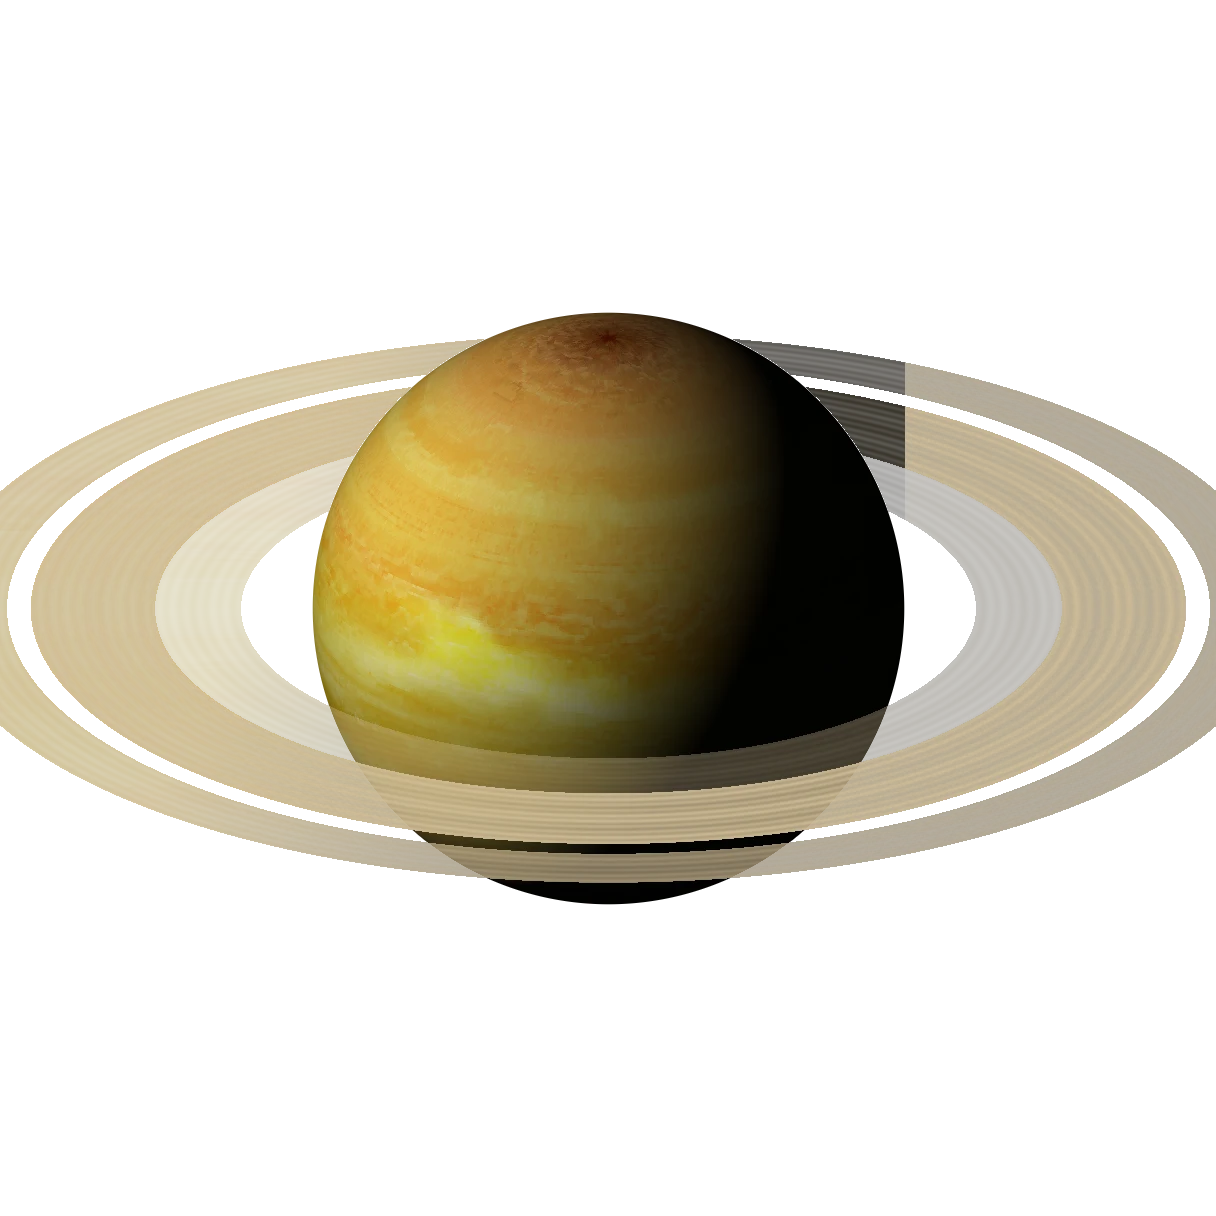
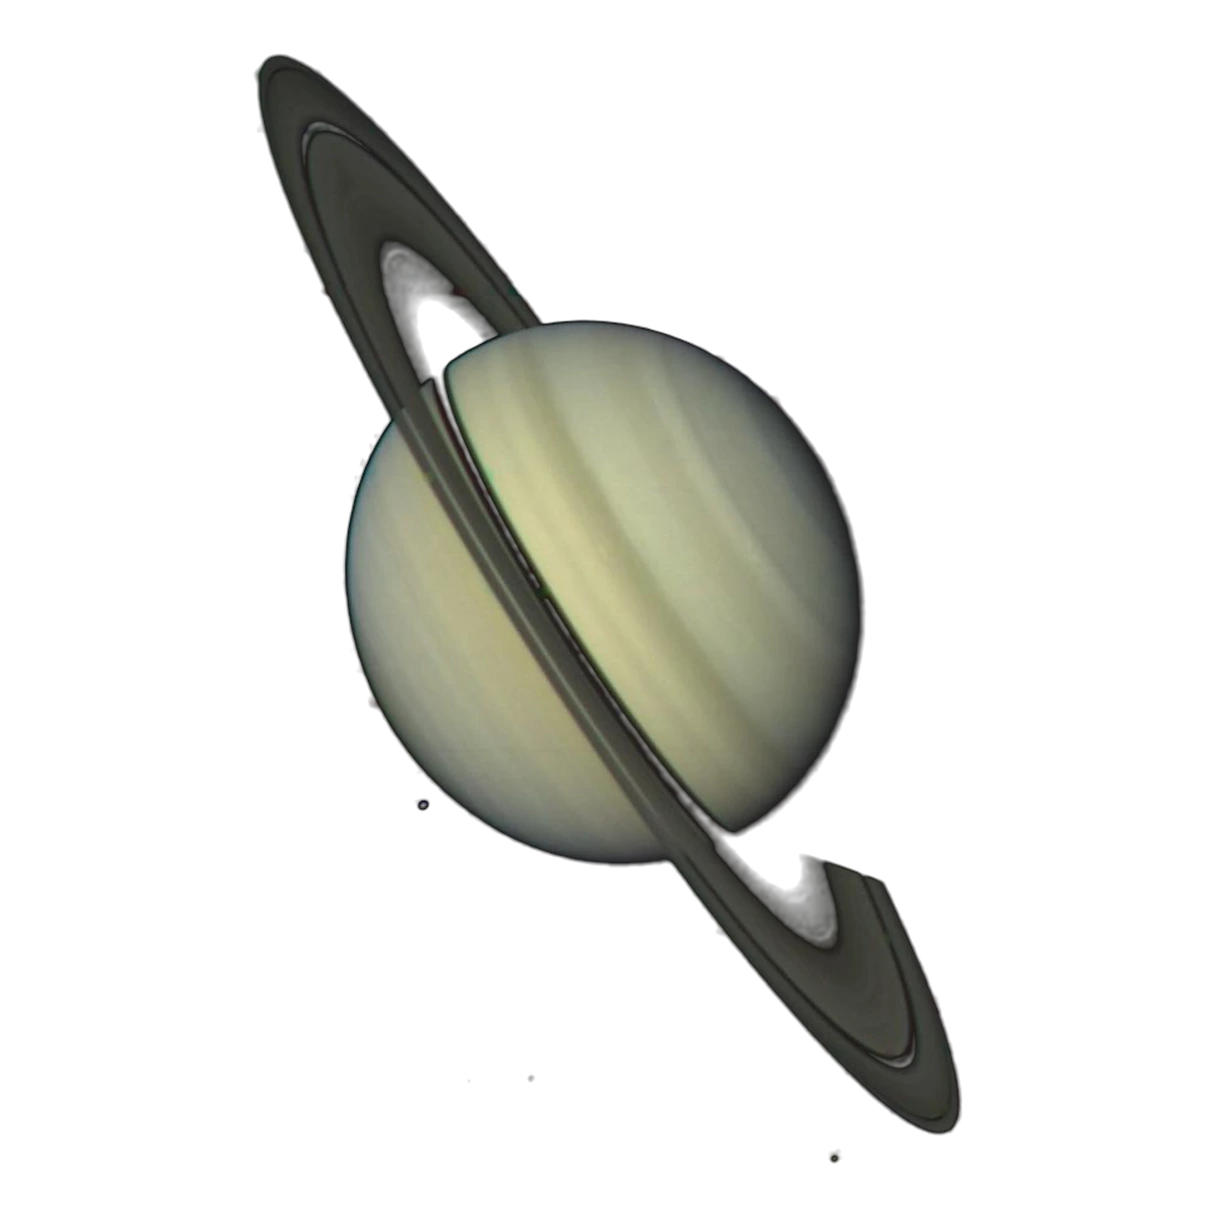
feat: vraies photos officielles pour les planètes et lunes
Remplace les globes 3D reconstitués par de vraies images de missions
NASA/ESA (Apollo 17, Voyager 1/2, Galileo, Hubble, New Horizons),
recadrées et détourées sur fond transparent. Crédits mis à jour,
avec mention "image composée" quand ce n'est pas un cliché brut
(fusion de filtres sur une même visée).

Met aussi à jour la carte Carte.js (variante holo pour les cartes
Légendaire) et les styles associés depuis la dernière export Nocturne.

diff --git a/frontend/app/astrodex.css b/frontend/app/astrodex.css
@@ -11,46 +11,86 @@ a:hover { color: var(--color-accent-300); }
 .ax-mark::after { content: ""; position: absolute; inset: 22%; border-radius: 50%; background: currentColor; }
 .ax-mark::before { content: ""; position: absolute; left: -35%; right: -35%; top: 45%; height: 1.5px; background: currentColor; transform: rotate(-22deg); }
 
-/* ---------- Carte ---------- */
-.ax-card { container-type: inline-size; position: relative; width: 100%; aspect-ratio: 63 / 88; perspective: 1400px; user-select: none; color: var(--color-text); --rc: #9aa1b9; }
+/* ---------- Carte ----------
+   Cadre métal par rareté (C → UR) ; Légendaire = holo pleine illustration. Tailles en cqw (référence : 260 px de large). */
+.ax-card { container-type: inline-size; position: relative; width: 100%; aspect-ratio: 63 / 88; perspective: 1400px; user-select: none; color: var(--color-text); --rc: #9aa1b9; --tc: oklch(0.78 0.11 70); }
 .ax-card[data-r="PC"] { --rc: #5ee0c0; }
 .ax-card[data-r="R"] { --rc: #6aa8ff; }
 .ax-card[data-r="UR"] { --rc: #c58bff; }
 .ax-card[data-r="L"] { --rc: #ffcf6b; }
+.ax-card[data-t="nebuleuse"] { --tc: oklch(0.74 0.12 345); }
+.ax-card[data-t="galaxie"] { --tc: oklch(0.74 0.11 265); }
+.ax-card[data-t="amas"] { --tc: oklch(0.8 0.09 195); }
 .ax-flip { position: absolute; inset: 0; transform-style: preserve-3d; transition: transform .75s cubic-bezier(.16,1,.3,1); }
 .ax-card[data-down] .ax-flip { transform: rotateY(180deg); }
-.ax-face, .ax-back { position: absolute; inset: 0; backface-visibility: hidden; -webkit-backface-visibility: hidden; border-radius: 4.6% / 3.3%; padding: 2.2cqw; }
-.ax-face { background: color-mix(in srgb, var(--rc) 22%, var(--color-surface)); box-shadow: 0 0 0 1px var(--color-neutral-800), 0 4cqw 9cqw -3cqw rgba(0,0,0,.7); }
-.ax-card[data-r="R"] .ax-face { box-shadow: 0 0 0 1px color-mix(in srgb, var(--rc) 67%, transparent), 0 4cqw 9cqw -3cqw rgba(0,0,0,.7); }
-.ax-card:is([data-r="UR"], [data-r="L"]) .ax-face { box-shadow: 0 0 0 1px var(--rc), 0 0 7cqw -1cqw color-mix(in srgb, var(--rc) 55%, transparent), 0 4cqw 9cqw -3cqw rgba(0,0,0,.7); }
-.ax-in { position: relative; height: 100%; border-radius: 3.6% / 2.6%; overflow: hidden; isolation: isolate;
-  background: radial-gradient(ellipse 80% 55% at 30% 25%, var(--color-accent-900), transparent 70%), linear-gradient(180deg, var(--color-bg), #0b0c14); }
+.ax-face, .ax-back { position: absolute; inset: 0; backface-visibility: hidden; -webkit-backface-visibility: hidden; border-radius: 5cqw; }
+
+/* cadre classique */
+.ax-face.classic { padding: 3.4cqw; box-shadow: 0 5cqw 11cqw -4cqw rgba(0,0,0,.7);
+  background: linear-gradient(145deg, color-mix(in srgb, var(--rc) 55%, var(--color-neutral-100)), var(--rc) 22%, color-mix(in srgb, var(--rc) 45%, var(--color-bg)) 52%, color-mix(in srgb, var(--rc) 80%, var(--color-neutral-100)) 78%, color-mix(in srgb, var(--rc) 50%, var(--color-bg))); }
+.ax-card[data-r="UR"] .ax-face.classic { box-shadow: 0 0 11cqw -2cqw var(--rc), 0 5cqw 11cqw -4cqw rgba(0,0,0,.7); }
+.ax-in { height: 100%; border-radius: 2.8cqw; padding: 3cqw 3.4cqw; display: flex; flex-direction: column; gap: 2cqw;
+  background: linear-gradient(180deg, color-mix(in srgb, var(--rc) 14%, var(--color-surface)), var(--color-bg)); }
+.ax-head { display: flex; align-items: center; gap: 2.8cqw; }
+.ax-ticon { width: 9.4cqw; height: 9.4cqw; flex: none; border-radius: 50%; display: grid; place-items: center; background: var(--tc); color: var(--color-bg); font-size: 5.4cqw; }
+.ax-title { min-width: 0; flex: 1; }
+.ax-name { font-size: 5.6cqw; font-weight: 600; line-height: 1.1; letter-spacing: -.01em; white-space: nowrap; overflow: hidden; text-overflow: ellipsis; }
+.ax-type { font-size: 3.1cqw; letter-spacing: .12em; text-transform: uppercase; color: var(--color-neutral-300); white-space: nowrap; overflow: hidden; text-overflow: ellipsis; }
+.ax-pow { flex: none; display: flex; align-items: baseline; gap: 1cqw; font-size: 3.1cqw; color: var(--color-neutral-300); }
+.ax-pow b { font-size: 6.6cqw; font-weight: 600; color: var(--color-text); }
+.ax-window { position: relative; height: 46cqw; flex: none; border-radius: 1.2cqw; overflow: hidden;
+  background: radial-gradient(ellipse 80% 70% at 40% 30%, var(--color-accent-900), #0b0c14);
+  box-shadow: 0 0 0 2px color-mix(in srgb, var(--rc) 70%, var(--color-bg)), inset 0 0 7cqw rgba(0,0,0,.6); }
 .ax-art { position: absolute; inset: 0; width: 100%; height: 100%; object-fit: cover; }
-.ax-art.globe { inset: auto; left: 6%; top: 8%; width: 88%; height: auto; }
-.ax-art.wide { inset: auto; left: -14%; top: 8%; width: 128%; max-width: none; height: auto; }
-.ax-scrim { position: absolute; inset: 0; background: linear-gradient(180deg, rgba(10,11,18,.55) 0%, transparent 18%, transparent 42%, rgba(10,11,18,.88) 64%, rgba(10,11,18,.97) 100%); }
-.ax-top { position: absolute; top: 0; left: 0; right: 0; display: flex; justify-content: space-between; align-items: center; padding: 4.4cqw 4.8cqw; }
-.ax-gem { display: flex; align-items: center; gap: 2.2cqw; font-size: 3.4cqw; letter-spacing: .12em; font-variant-numeric: tabular-nums; color: var(--color-neutral-200); }
-.ax-gem i { width: 3.6cqw; height: 3.6cqw; transform: rotate(45deg); border-radius: 1px; background: var(--rc); box-shadow: 0 0 3cqw var(--rc); }
-.ax-pow { font-size: 3.8cqw; padding: 1cqw 3cqw; border-radius: 99px; border: 1px solid var(--color-divider); color: var(--color-neutral-300); background: rgba(10,11,18,.45); }
-.ax-pow b { font-weight: 600; color: var(--color-text); }
-.ax-new { font-size: 3.4cqw; font-weight: 600; letter-spacing: .1em; padding: 1cqw 3cqw; border-radius: 99px; border: 1px solid var(--color-accent); color: var(--color-accent-200); background: rgba(10,11,18,.6); }
-.ax-bottom { position: absolute; left: 0; right: 0; bottom: 0; padding: 0 4.8cqw 4.2cqw; display: grid; gap: 2.6cqw; }
-.ax-type { font-size: 3.5cqw; letter-spacing: .14em; text-transform: uppercase; font-weight: 600; color: var(--rc); }
-.ax-name { font-size: 7.6cqw; font-weight: 500; letter-spacing: -.02em; line-height: 1.05; text-wrap: balance; margin-top: -1cqw; }
-.ax-meta { font-size: 3.8cqw; color: var(--color-neutral-400); margin-top: -1.4cqw; }
-.ax-stats { display: grid; grid-template-columns: repeat(3, 1fr); gap: 2.6cqw; padding: 3cqw 3.4cqw; border-radius: 3.4cqw; background: rgba(233,233,237,.05); border: 1px solid rgba(233,233,237,.09); }
-.ax-stat { display: grid; gap: 1.4cqw; }
-.ax-stat > div:first-child { display: flex; justify-content: space-between; align-items: baseline; font-size: 3cqw; letter-spacing: .14em; color: var(--color-neutral-500); }
-.ax-stat b { font-size: 5cqw; letter-spacing: 0; font-weight: 500; color: var(--color-text); font-variant-numeric: tabular-nums; }
-.ax-bar { height: 2px; border-radius: 2px; background: rgba(233,233,237,.1); overflow: hidden; }
-.ax-bar i { display: block; height: 100%; background: var(--rc); }
-.ax-foot { display: flex; justify-content: space-between; gap: 3cqw; font-size: 2.8cqw; color: var(--color-neutral-600); letter-spacing: .04em; }
+.ax-art.globe { object-fit: contain; transform: scale(1.2); }
+.ax-new { position: absolute; top: 2cqw; right: 2cqw; z-index: 2; font-size: 3cqw; font-weight: 600; letter-spacing: .1em; padding: .8cqw 2.6cqw; border-radius: 99px; border: 1px solid var(--color-accent); color: var(--color-accent-200); background: rgba(10,11,18,.7); }
+.ax-desc { font-size: 3.5cqw; line-height: 1.4; color: var(--color-neutral-300); padding: 2.3cqw 3cqw; border-radius: 2.3cqw;
+  background: color-mix(in srgb, var(--color-surface) 80%, transparent); box-shadow: inset 0 0 0 1px rgba(233,233,237,.06);
+  display: -webkit-box; -webkit-line-clamp: 2; -webkit-box-orient: vertical; overflow: hidden; text-wrap: pretty; }
+.ax-move { display: flex; align-items: center; gap: 2.6cqw; }
+.ax-move i { font-size: 5.2cqw; color: var(--rc); }
+.ax-move span { font-size: 4.5cqw; font-weight: 600; flex: 1; }
+.ax-move b { font-size: 6.4cqw; font-weight: 600; font-variant-numeric: tabular-nums; }
+.ax-rule { height: 1px; flex: none; background: linear-gradient(to right, transparent, var(--color-divider) 9cqw, var(--color-divider) calc(100% - 9cqw), transparent); }
+.ax-info { margin-top: auto; display: grid; grid-template-columns: 1fr 1fr 1fr; gap: 1.5cqw; font-size: 3cqw; letter-spacing: .06em; color: var(--color-neutral-500); text-transform: uppercase; }
+.ax-info > div:nth-child(2) { text-align: center; }
+.ax-info > div:nth-child(3) { text-align: right; min-width: 0; }
+.ax-info b { display: block; font-size: 4.6cqw; letter-spacing: 0; color: var(--color-text); font-weight: 500; }
+.ax-info em { display: block; font-style: normal; font-size: 3.8cqw; letter-spacing: 0; text-transform: none; color: var(--color-text); white-space: nowrap; overflow: hidden; text-overflow: ellipsis; }
+.ax-gems { display: flex; justify-content: center; gap: .9cqw; margin-top: 1.4cqw; }
+.ax-gems i { width: 2.3cqw; height: 2.3cqw; transform: rotate(45deg); background: var(--color-neutral-800); }
+.ax-gems i.on { background: var(--rc); }
+.ax-foot { display: flex; justify-content: space-between; gap: 2cqw; font-size: 2.6cqw; color: var(--color-neutral-600); }
 .ax-foot span { white-space: nowrap; }
 .ax-foot span:first-child { overflow: hidden; text-overflow: ellipsis; min-width: 0; }
-.ax-back { transform: rotateY(180deg); background: var(--color-surface); box-shadow: 0 0 0 1px var(--color-neutral-800), 0 4cqw 9cqw -3cqw rgba(0,0,0,.7); }
+
+/* légendaire : holo pleine illustration */
+.ax-face.holo { overflow: hidden; background: radial-gradient(ellipse 90% 60% at 50% 35%, var(--color-accent-900), #0b0c14);
+  box-shadow: 0 0 0 1px var(--rc), 0 0 11cqw -2cqw var(--rc), 0 5cqw 11cqw -4cqw rgba(0,0,0,.7); }
+/* centre de l'image remonté au centre de la zone visible, entre l'en-tête et les panneaux du bas */
+.ax-face.holo .ax-art { transform: scale(1.15) translateY(-6%); }
+.ax-face.holo .ax-art.globe { transform: scale(1.35) translateY(-10%); }
+.ax-foil { position: absolute; inset: 0; mix-blend-mode: color-dodge; opacity: .55;
+  background: repeating-linear-gradient(118deg, transparent 0%, oklch(0.8 0.12 60 / .5) 5%, oklch(0.8 0.12 170 / .5) 10%, oklch(0.75 0.14 290 / .5) 15%, transparent 20%), radial-gradient(circle at 30% 20%, rgba(233,233,237,.4), transparent 40%); }
+.ax-glitter { position: absolute; inset: 0; mix-blend-mode: screen; opacity: .35;
+  background: radial-gradient(circle, rgba(255,247,214,.9) 0 .6px, transparent 1px) 0 0 / 11px 13px, radial-gradient(circle, rgba(233,233,237,.8) 0 .5px, transparent 1px) 5px 7px / 17px 19px; }
+.ax-shade { position: absolute; inset: 0; background: linear-gradient(180deg, rgba(10,11,18,.45), transparent 16%, transparent 52%, rgba(10,11,18,.35) 72%, rgba(10,11,18,.7)); }
+.ax-inner-ring { position: absolute; inset: 2.7cqw; border-radius: 3.4cqw; box-shadow: inset 0 0 0 1px color-mix(in srgb, var(--rc) 60%, transparent); }
+/* en-tête et capacités posés directement sur l'image */
+.ax-face.holo .ax-head { position: absolute; top: 5cqw; left: 5cqw; right: 5cqw; padding: 0 1cqw; }
+.ax-face.holo .ax-head, .ax-face.holo .ax-moves { text-shadow: 0 1px 3px rgba(0,0,0,.85), 0 0 8px rgba(0,0,0,.5); }
+.ax-face.holo .ax-new { top: 19cqw; right: 6cqw; }
+.ax-holo-bottom { position: absolute; left: 5cqw; right: 5cqw; bottom: 4.6cqw; display: grid; gap: 2.2cqw; }
+.ax-glass { border-radius: 2.3cqw; background: rgba(22,24,38,.55); backdrop-filter: blur(8px); border: 1px solid rgba(233,233,237,.1); box-shadow: none; }
+.ax-face.holo .ax-desc { color: var(--color-neutral-200); }
+.ax-moves { display: grid; gap: 1.6cqw; padding: 0 1cqw; }
+.ax-face.holo .ax-info { margin-top: .6cqw; color: var(--color-neutral-400); }
+.ax-face.holo .ax-foot { color: var(--color-neutral-500); }
+
+/* dos */
+.ax-back { transform: rotateY(180deg); padding: 3.4cqw; background: var(--color-surface); box-shadow: 0 0 0 1px var(--color-neutral-800), 0 4cqw 9cqw -3cqw rgba(0,0,0,.7); }
 .ax-card[data-hint]:is([data-r="R"], [data-r="UR"], [data-r="L"]) .ax-back { box-shadow: 0 0 0 1px var(--rc), 0 0 6cqw -1cqw color-mix(in srgb, var(--rc) 67%, transparent); }
-.ax-back-in { position: relative; height: 100%; border-radius: 3.6% / 2.6%; overflow: hidden; display: grid; place-items: center;
+.ax-back-in { position: relative; height: 100%; border-radius: 2.8cqw; overflow: hidden; display: grid; place-items: center;
   background: repeating-radial-gradient(circle at 50% 50%, transparent 0 8cqw, rgba(181,171,252,.07) 8cqw calc(8cqw + 1px)), radial-gradient(circle at 50% 50%, var(--color-accent-800), transparent 62%), linear-gradient(160deg, var(--color-accent-900), var(--color-bg)); }
 .ax-emblem { width: 26cqw; height: 26cqw; border-width: 2px; color: var(--color-accent-200); }
 .ax-emblem::before { height: 2px; }

diff --git a/frontend/components/Carte.js b/frontend/components/Carte.js
@@ -1,48 +1,90 @@
-/* Rendu React d'une carte à partir des données de l'API (card_out). Remplace renderCard() de card.js. */
+/* Rendu React d'une carte à partir des données de l'API (card_out).
+   C → UR : cadre métal par rareté. L : holo pleine illustration. Styles : app/astrodex.css (.ax-card). */
 
 export const RAR = {
-  C:  { label: "Commune",     color: "#9aa1b9" },
-  PC: { label: "Peu commune", color: "#5ee0c0" },
-  R:  { label: "Rare",        color: "#6aa8ff" },
-  UR: { label: "Ultra rare",  color: "#c58bff" },
-  L:  { label: "Légendaire",  color: "#ffcf6b" },
+  C:  { label: "Commune",     color: "#9aa1b9", n: 1 },
+  PC: { label: "Peu commune", color: "#5ee0c0", n: 2 },
+  R:  { label: "Rare",        color: "#6aa8ff", n: 3 },
+  UR: { label: "Ultra rare",  color: "#c58bff", n: 4 },
+  L:  { label: "Légendaire",  color: "#ffcf6b", n: 5 },
 };
 export const ORDER = ["C", "PC", "R", "UR", "L"];
 
+const TYPES = [
+  [/plan|géante|satellite|naine/i, "planete", "ph-planet"],
+  [/nébuleuse|région/i, "nebuleuse", "ph-cloud"],
+  [/galaxie/i, "galaxie", "ph-spiral"],
+  [/amas/i, "amas", "ph-sparkle"],
+];
+const typeOf = t => TYPES.find(([re]) => re.test(t || "")) || TYPES[0];
 const pad = n => String(n).padStart(3, "0");
 
-export default function Carte({ c, revealed = true, hint = false, nouvelle = false, qty = 0 }) {
-  const art = c.cadrage === "globe" ? "ax-art globe" : c.cadrage === "globe-large" ? "ax-art wide" : "ax-art";
+function Head({ c, icon }) {
   return (
-    <div className="ax-card" data-r={c.rarete} data-down={revealed ? undefined : ""} data-hint={hint ? "" : undefined}>
+    <div className="ax-head">
+      <span className="ax-ticon"><i className={`ph-fill ${icon}`} /></span>
+      <div className="ax-title">
+        <div className="ax-name">{c.nom}</div>
+        <div className="ax-type">{c.type}</div>
+      </div>
+      <span className="ax-pow">PUI<b>{c.attaque + c.defense + c.vitesse}</b></span>
+    </div>
+  );
+}
+
+function Moves({ c }) {
+  const n = RAR[c.rarete]?.n || 1;
+  return (
+    <>
+      <div className="ax-move"><i className="ph-fill ph-lightning" /><span>Attaque</span><b>{c.attaque}</b></div>
+      <div className="ax-rule" />
+      <div className="ax-move"><i className="ph-fill ph-shield" /><span>Défense</span><b>{c.defense}</b></div>
+      <div className="ax-info">
+        <div>Vitesse<b>{c.vitesse}</b></div>
+        <div>Rareté<div className="ax-gems">{[1, 2, 3, 4, 5].map(i => <i key={i} className={i <= n ? "on" : undefined} />)}</div></div>
+        <div>Constellation<em>{c.constellation}</em></div>
+      </div>
+    </>
+  );
+}
+
+const Foot = ({ c }) => (
+  <div className="ax-foot"><span>© {c.credit}</span><span>{c.serie} · {pad(c.numero)}/{pad(c.total)}</span></div>
+);
+
+export default function Carte({ c, revealed = true, hint = false, nouvelle = false, qty = 0 }) {
+  const [, tkey, icon] = typeOf(c.type);
+  const globe = c.cadrage === "globe" || c.cadrage === "globe-large";
+  // eslint-disable-next-line @next/next/no-img-element
+  const art = <img className={globe ? "ax-art globe" : "ax-art"} src={c.image_url} alt={c.nom} draggable={false} loading="lazy" />;
+  const isL = c.rarete === "L";
+
+  return (
+    <div className="ax-card" data-r={c.rarete} data-t={tkey} data-down={revealed ? undefined : ""} data-hint={hint ? "" : undefined}>
       <div className="ax-flip">
-        <div className="ax-face">
-          <div className="ax-in">
-            {/* eslint-disable-next-line @next/next/no-img-element */}
-            <img className={art} src={c.image_url} alt={c.nom} draggable={false} loading="lazy" />
-            <div className="ax-scrim" />
-            <div className="ax-top">
-              <span className="ax-gem"><i />{c.serie} · {pad(c.numero)}/{pad(c.total)}</span>
-              {nouvelle
-                ? <span className="ax-new">NOUVELLE</span>
-                : <span className="ax-pow">PUI <b>{c.attaque + c.defense + c.vitesse}</b></span>}
-            </div>
-            <div className="ax-bottom">
-              <div className="ax-type">{c.type}</div>
-              <div className="ax-name">{c.nom}</div>
-              <div className="ax-meta">{[c.constellation, c.faits].filter(Boolean).join(" · ")}</div>
-              <div className="ax-stats">
-                {[["ATQ", c.attaque], ["DÉF", c.defense], ["VIT", c.vitesse]].map(([k, v]) => (
-                  <div className="ax-stat" key={k}>
-                    <div>{k}<b>{v}</b></div>
-                    <div className="ax-bar"><i style={{ width: `${v}%` }} /></div>
-                  </div>
-                ))}
-              </div>
-              <div className="ax-foot"><span>© {c.credit}</span><span>{RAR[c.rarete]?.label}</span></div>
+        {isL ? (
+          <div className="ax-face holo">
+            {art}
+            <div className="ax-foil" /><div className="ax-glitter" /><div className="ax-shade" /><div className="ax-inner-ring" />
+            <Head c={c} icon={icon} />
+            {nouvelle && <span className="ax-new">NOUVELLE</span>}
+            <div className="ax-holo-bottom">
+              {c.description && <div className="ax-desc ax-glass">{c.description}</div>}
+              <div className="ax-moves"><Moves c={c} /></div>
+              <Foot c={c} />
             </div>
           </div>
-        </div>
+        ) : (
+          <div className="ax-face classic">
+            <div className="ax-in">
+              <Head c={c} icon={icon} />
+              <div className="ax-window">{art}{nouvelle && <span className="ax-new">NOUVELLE</span>}</div>
+              {c.description && <div className="ax-desc">{c.description}</div>}
+              <Moves c={c} />
+              <Foot c={c} />
+            </div>
+          </div>
+        )}
         <div className="ax-back">
           <div className="ax-back-in">
             <span className="ax-mark ax-emblem" />

diff --git a/frontend/app/layout.js b/frontend/app/layout.js
@@ -14,6 +14,7 @@ export default function RootLayout({ children }) {
         <link rel="preconnect" href="https://fonts.googleapis.com" />
         <link rel="preconnect" href="https://fonts.gstatic.com" crossOrigin="" />
         <link rel="stylesheet" href="https://unpkg.com/@phosphor-icons/web@2.1.1/src/regular/style.css" />
+        <link rel="stylesheet" href="https://unpkg.com/@phosphor-icons/web@2.1.1/src/fill/style.css" />
       </head>
       <body>{children}</body>
     </html>
